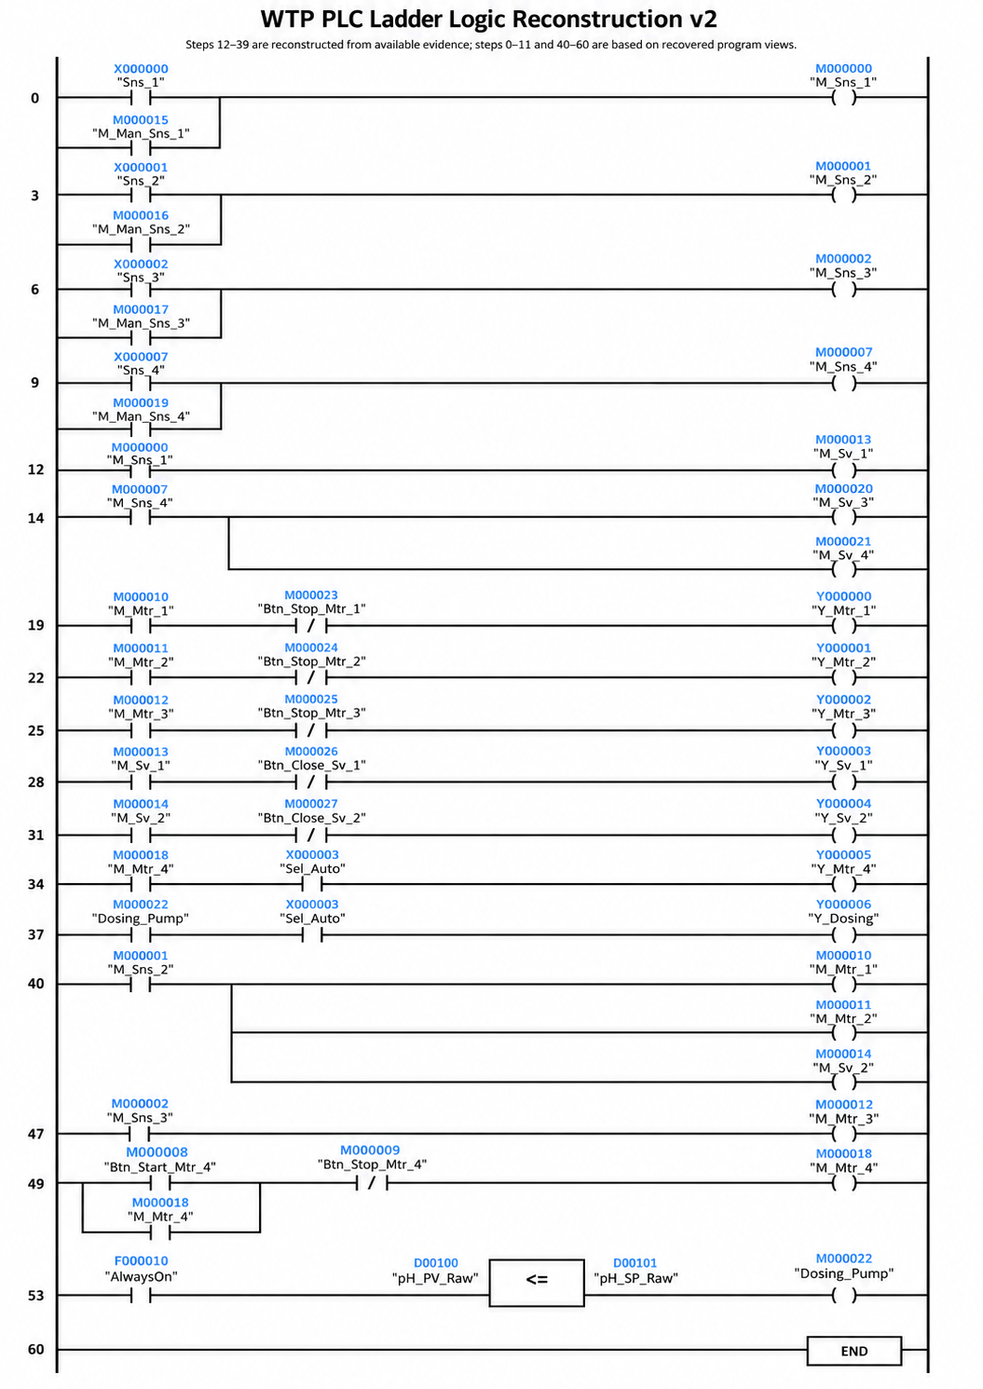
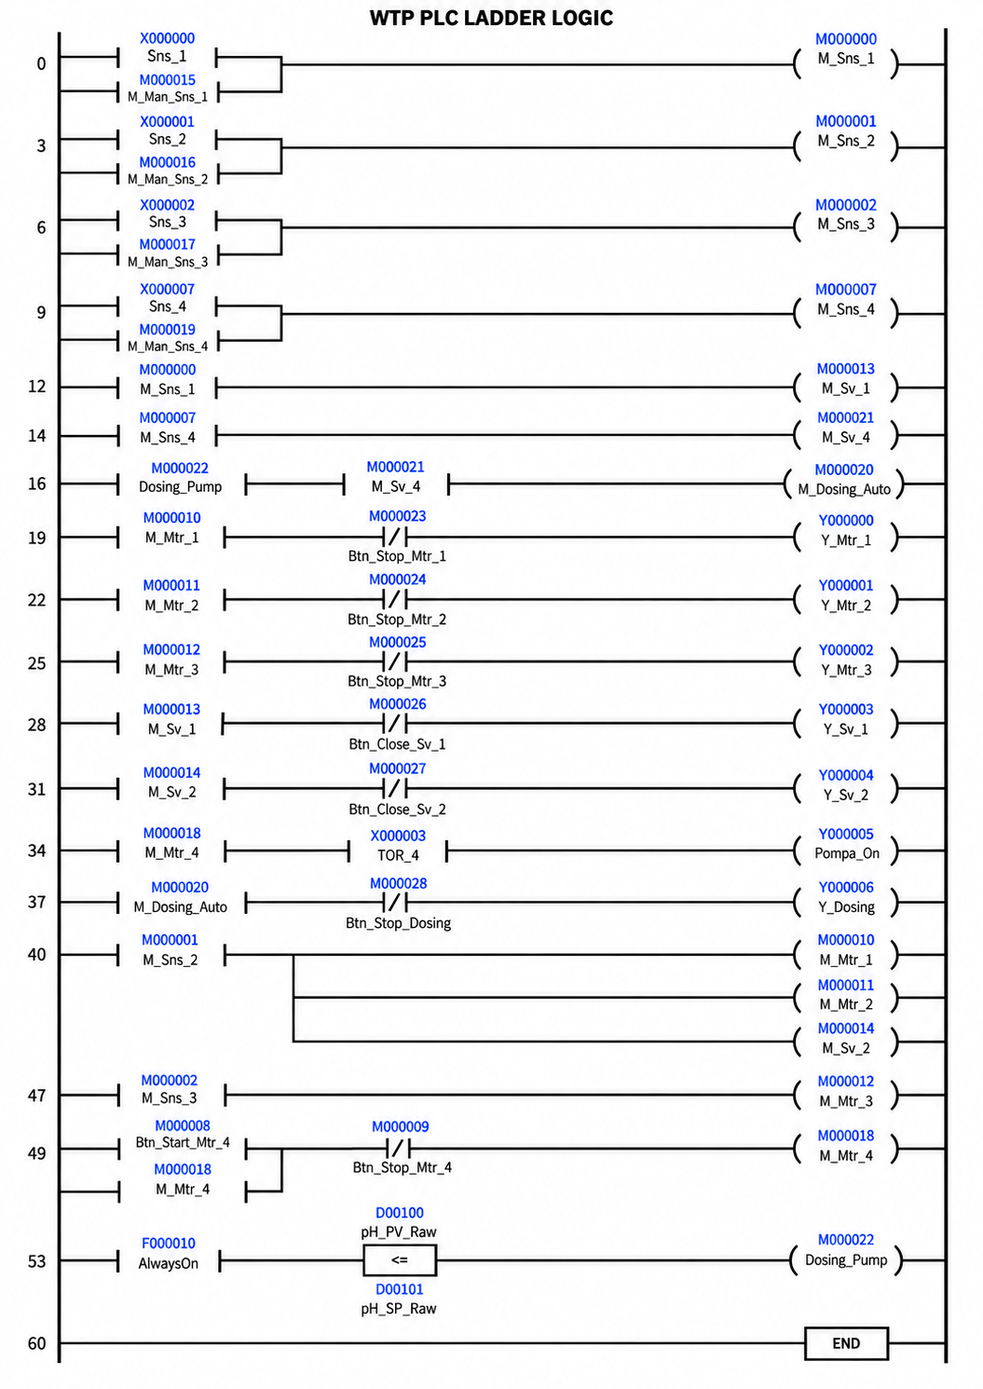
Refine WTP PLC logic section and image zoom

Changed region(s): [[0.0303, 0.0, 0.9706, 0.9873], [0.7886, 0.216, 0.819, 0.2468]]

diff --git a/script.js b/script.js
@@ -287,6 +287,25 @@ const wtpTextPairs = [
   ['Control logic and operator interface.', 'Logika kontrol dan antarmuka operator.'],
   ['Input handling', 'Penanganan input'],
   ['Physical X inputs and manual M_Man_Sns overrides are combined into normalized M_Sns internal states.', 'Input fisik X dan override manual M_Man_Sns digabungkan menjadi state internal M_Sns yang ternormalisasi.'],
+  ['Process sequencing', 'Urutan proses'],
+  ['Normalized process states generate the internal motor and valve commands used by the control program. M_Sns_2 coordinates Motor 1, Motor 2, and SV2 as one process group, while M_Sns_3 commands Motor 3.', 'State proses yang ternormalisasi menghasilkan perintah internal motor dan katup yang digunakan program kontrol. M_Sns_2 mengoordinasikan Motor 1, Motor 2, dan SV2 sebagai satu kelompok proses, sedangkan M_Sns_3 memerintahkan Motor 3.'],
+  ['Circulation control', 'Kontrol sirkulasi'],
+  ['Pump 4 uses HMI start/stop commands to latch M_Mtr_4. The retained run state passes through the TOR_4 overload permissive before the physical Pompa_On output is energized.', 'Pompa 4 menggunakan perintah start/stop HMI untuk melatch M_Mtr_4. State operasi yang dipertahankan melewati permissive overload TOR_4 sebelum output fisik Pompa_On diaktifkan.'],
+  ['pH dosing control', 'Kontrol dosing pH'],
+  ['The GWQ pH process value is transferred through RS485 / Modbus RTU into D00100, while D00101 stores the pH setpoint. The comparison generates M000022 Dosing_Pump; the automatic path is qualified through the SV4 state and operator dosing-stop command before Y_Dosing is energized.', 'Nilai proses pH GWQ ditransfer melalui RS485 / Modbus RTU ke D00100, sedangkan D00101 menyimpan setpoint pH. Hasil perbandingan menghasilkan M000022 Dosing_Pump; jalur otomatis kemudian dikualifikasi melalui state SV4 dan perintah dosing-stop operator sebelum Y_Dosing diaktifkan.'],
+  ['PLC tag map', 'Peta tag PLC'],
+  ['Tag / area', 'Tag / area'],
+  ['Type', 'Tipe'],
+  ['Function', 'Fungsi'],
+  ['Physical process inputs', 'Input fisik proses'],
+  ['HMI/manual input overrides', 'Override input HMI/manual'],
+  ['Normalized process states', 'State proses ternormalisasi'],
+  ['Internal motor commands/states', 'Perintah/state internal motor'],
+  ['Internal valve / control-mode states', 'State internal katup / mode kontrol'],
+  ['pH process value', 'Nilai proses pH'],
+  ['pH setpoint', 'Setpoint pH'],
+  ['Pump-4 overload permissive', 'Permissive overload Pompa 4'],
+  ['Physical actuator outputs', 'Output fisik aktuator'],
   ['Process states', 'State proses'],
   ['Recovered logic derives internal motor/valve states such as M_Mtr_1â€“3 and M_Sv_2. These are PLC/HMI internal states; direct physical Y mappings for the legacy process were not recovered.', 'Logika yang dipulihkan menghasilkan state internal motor/katup seperti M_Mtr_1â€“3 dan M_Sv_2. Ini merupakan state internal PLC/HMI; pemetaan fisik Y langsung untuk proses lama belum berhasil ditemukan.'],
   ['Circulation', 'Sirkulasi'],
@@ -295,8 +314,10 @@ const wtpTextPairs = [
   ['The GWQ pH value is mapped through RS485 / Modbus into D00100. D00101 stores the pH setpoint. The recovered comparison generates M000022 Dosing_Pump.', 'Nilai pH GWQ dipetakan melalui RS485 / Modbus ke D00100. D00101 menyimpan setpoint pH. Perbandingan yang dipulihkan menghasilkan M000022 Dosing_Pump.'],
   ['Recovered and reconstructed logic; inferred output mappings are distinguished from directly observed program logic.', 'Logika hasil pemulihan dan rekonstruksi; pemetaan output yang diinferensikan dibedakan dari logika program yang diamati secara langsung.'],
   ['Process overview', 'Ikhtisar Proses'],
+  ['Process-status overview with operator controls for the existing WTP stages and coordinated equipment states.', 'Ikhtisar status proses dengan kontrol operator untuk tahapan WTP yang sudah ada dan state peralatan yang terkoordinasi.'],
   ['Legacy WTP process overview showing pump, valve, level, and operating states.', 'Ikhtisar proses WTP lama yang menampilkan state pompa, katup, level, dan operasi.'],
   ['pH control', 'Kontrol pH'],
+  ['Operator interface for pH PV/SV, circulation control, automatic dosing, and dosing-pump status.', 'Antarmuka operator untuk PV/SV pH, kontrol sirkulasi, dosing otomatis, dan status pompa dosing.'],
   ['Dedicated pH-control view showing PV/SV, Pump 4 circulation controls, dosing status, and the modified treatment loop.', 'Tampilan khusus kontrol pH yang menunjukkan PV/SV, kontrol sirkulasi Pompa 4, status dosing, dan loop pengolahan hasil modifikasi.'],
   ['Auxiliary control panel', 'Panel kontrol bantu'],
   ['Electrical Wiring & Control', 'Wiring & Kontrol Elektrikal'],
@@ -503,7 +524,7 @@ function translateTextNodes(lang) {
       : textPairs;
   const map = new Map(activePairs.map(pair => [normalizeText(pair[from]), pair[to]]));
   const stableMap = new Map(activePairs.map(pair => [normalizeText(pair[0]), pair[lang === 'id' ? 1 : 0]]));
-  const selector = 'a, button, h1, h2, h3, p, span, strong, figcaption, small, dt, dd, li';
+  const selector = 'a, button, h1, h2, h3, p, span, strong, figcaption, small, dt, dd, li, th, td';
 
   document.querySelectorAll('[data-i18n]').forEach(element => {
     const value = timahProjectTranslations[lang]?.[element.dataset.i18n]
@@ -566,10 +587,58 @@ document.querySelectorAll('.lang-option').forEach(button => {
 function initializeImageLightbox() {
   const lightbox = document.querySelector('.image-lightbox');
   const lightboxImage = lightbox?.querySelector('img');
+  const stage = lightbox?.querySelector('.image-lightbox-stage');
   const closeButton = lightbox?.querySelector('.image-lightbox-close');
-  if (!lightbox || !lightboxImage || !document.body.classList.contains('wtp-page')) return;
+  const zoomOutButton = lightbox?.querySelector('[data-zoom-out]');
+  const zoomResetButton = lightbox?.querySelector('[data-zoom-reset]');
+  const zoomInButton = lightbox?.querySelector('[data-zoom-in]');
+  if (!lightbox || !lightboxImage || !stage || !document.body.classList.contains('wtp-page')) return;
+
+  const pointers = new Map();
+  let scale = 1;
+  let panX = 0;
+  let panY = 0;
+  let dragging = false;
+  let dragPoint = null;
+  let pinchDistance = 0;
+  let pinchScale = 1;
+
+  const clamp = (value, minimum, maximum) => Math.min(maximum, Math.max(minimum, value));
+  const distance = ([first, second]) => Math.hypot(second.x - first.x, second.y - first.y);
+
+  const renderTransform = () => {
+    const maxX = Math.max(0, (lightboxImage.offsetWidth * scale - stage.clientWidth) / 2);
+    const maxY = Math.max(0, (lightboxImage.offsetHeight * scale - stage.clientHeight) / 2);
+    panX = clamp(panX, -maxX, maxX);
+    panY = clamp(panY, -maxY, maxY);
+    lightboxImage.style.transform = `translate(${panX}px, ${panY}px) scale(${scale})`;
+    lightboxImage.classList.toggle('is-zoomed', scale > 1);
+    lightboxImage.classList.toggle('is-dragging', dragging);
+    if (zoomResetButton) zoomResetButton.textContent = `${Math.round(scale * 100)}%`;
+  };
+
+  const resetTransform = () => {
+    scale = 1;
+    panX = 0;
+    panY = 0;
+    dragging = false;
+    dragPoint = null;
+    pinchDistance = 0;
+    pointers.clear();
+    renderTransform();
+  };
+
+  const setZoom = value => {
+    scale = clamp(value, 1, 5);
+    if (scale === 1) {
+      panX = 0;
+      panY = 0;
+    }
+    renderTransform();
+  };
 
   const open = (source, alt = '') => {
+    resetTransform();
     lightboxImage.src = new URL(source, document.baseURI).href;
     lightboxImage.alt = alt;
     lightbox.classList.add('is-open');
@@ -579,6 +648,7 @@ function initializeImageLightbox() {
   };
 
   const close = () => {
+    resetTransform();
     lightbox.classList.remove('is-open');
     lightbox.setAttribute('aria-hidden', 'true');
     document.body.classList.remove('lightbox-open');
@@ -601,9 +671,61 @@ function initializeImageLightbox() {
   document.querySelectorAll('[data-lightbox-src]').forEach(trigger => {
     trigger.addEventListener('click', () => open(trigger.dataset.lightboxSrc, 'Field installation work at the Water Treatment Plant'));
   });
+  zoomOutButton?.addEventListener('click', () => setZoom(scale - .5));
+  zoomResetButton?.addEventListener('click', resetTransform);
+  zoomInButton?.addEventListener('click', () => setZoom(scale + .5));
+  stage.addEventListener('wheel', event => {
+    event.preventDefault();
+    setZoom(scale + (event.deltaY < 0 ? .25 : -.25));
+  }, { passive: false });
+  lightboxImage.addEventListener('dblclick', event => {
+    event.preventDefault();
+    setZoom(scale === 1 ? 2.5 : 1);
+  });
+  lightboxImage.addEventListener('pointerdown', event => {
+    pointers.set(event.pointerId, { x: event.clientX, y: event.clientY });
+    lightboxImage.setPointerCapture(event.pointerId);
+    if (pointers.size === 2) {
+      pinchDistance = distance([...pointers.values()]);
+      pinchScale = scale;
+      dragging = false;
+    } else if (scale > 1) {
+      dragging = true;
+      dragPoint = { x: event.clientX, y: event.clientY };
+    }
+    renderTransform();
+  });
+  lightboxImage.addEventListener('pointermove', event => {
+    if (!pointers.has(event.pointerId)) return;
+    pointers.set(event.pointerId, { x: event.clientX, y: event.clientY });
+    if (pointers.size === 2 && pinchDistance > 0) {
+      setZoom(pinchScale * distance([...pointers.values()]) / pinchDistance);
+      return;
+    }
+    if (!dragging || !dragPoint || scale === 1) return;
+    panX += event.clientX - dragPoint.x;
+    panY += event.clientY - dragPoint.y;
+    dragPoint = { x: event.clientX, y: event.clientY };
+    renderTransform();
+  });
+  const endPointer = event => {
+    pointers.delete(event.pointerId);
+    if (pointers.size === 1 && scale > 1) {
+      const point = [...pointers.values()][0];
+      dragging = true;
+      dragPoint = { ...point };
+    } else {
+      dragging = false;
+      dragPoint = null;
+    }
+    if (pointers.size < 2) pinchDistance = 0;
+    renderTransform();
+  };
+  lightboxImage.addEventListener('pointerup', endPointer);
+  lightboxImage.addEventListener('pointercancel', endPointer);
   closeButton?.addEventListener('click', close);
   lightbox.addEventListener('click', event => {
-    if (event.target === lightbox) close();
+    if (event.target === lightbox || event.target === stage) close();
   });
   document.addEventListener('keydown', event => {
     if (event.key === 'Escape' && lightbox.classList.contains('is-open')) close();

diff --git a/styles.css b/styles.css
@@ -1075,8 +1075,8 @@ h3 { font-size: 1.45rem; }
 .wtp-hero-panel { display:block; min-width:0; background-repeat:no-repeat; background-size:cover; }
 .wtp-hero-panel-installation { background-image:url("assets/projects/wtp/wtp-hero.jpg"); background-position:28% center; }
 .wtp-hero-panel-dosing { background-image:url("assets/projects/wtp/wtp-soda-ash-loading.jpg"); background-position:center 43%; box-shadow:inset 1px 0 rgba(255,255,255,.1); }
-.wtp-process-section,.wtp-plc-section { background:#CFE8FF; }
-.wtp-plc-section { box-shadow:0 0 0 100vmax #CFE8FF; clip-path:inset(0 -100vmax); }
+.wtp-process-section { background:#CFE8FF; }
+.wtp-plc-section { background:#fff; box-shadow:0 0 0 100vmax #fff; clip-path:inset(0 -100vmax); }
 .wtp-problem-section,.wtp-testing-section { background:#fff; box-shadow:0 0 0 100vmax #fff; clip-path:inset(0 -100vmax); }
 .wtp-problem-layout { align-items:stretch; }
 .wtp-problem-layout > div > p:last-child { max-width:600px; margin-bottom:0; }
@@ -1098,19 +1098,28 @@ h3 { font-size: 1.45rem; }
 .wtp-architecture-heading h2 { white-space:nowrap; }
 .wtp-architecture-layout { grid-template-columns:minmax(260px,.7fr) minmax(0,1.3fr); align-items:start; }
 .wtp-architecture-layout .wtp-dark-callouts { height:100%; margin:0; align-content:space-between; }
-.wtp-plc-layout { grid-template-columns:minmax(250px,.48fr) minmax(0,1fr); gap:36px; align-items:end; }
-.wtp-plc-copy { display:grid; gap:11px; }
-.wtp-plc-copy article { padding-bottom:10px; border-bottom:1px solid rgba(7,26,56,.13); }
+.wtp-plc-grid { display:grid; grid-template-columns:minmax(310px,.42fr) minmax(0,.58fr); gap:28px 36px; align-items:start; }
+.wtp-plc-copy { min-width:0; }
+.wtp-plc-top { margin-bottom:16px; }
+.wtp-plc-top h2 { margin-bottom:0; }
+.wtp-plc-items { display:grid; gap:9px; }
+.wtp-plc-copy article { padding-bottom:8px; border-bottom:1px solid rgba(7,26,56,.13); }
 .wtp-plc-copy article:last-of-type { border-bottom:0; }
 .wtp-plc-copy strong { color:var(--wtp-blue); font-size:.65rem; font-weight:850; letter-spacing:.08em; text-transform:uppercase; }
-.wtp-plc-layout > div:first-child p { max-width:430px; margin:4px 0 0; font-size:.72rem; line-height:1.45; }
-.wtp-plc-layout code { color:#1268c4; font-size:.78rem; font-weight:750; }
-.wtp-plc-layout small { display:block; max-width:440px; color:#718093; font-size:.68rem; }
-.wtp-ladder-media img { max-height:560px; object-fit:contain; }
-.wtp-hmi-pair { margin-top:24px; }
-.wtp-hmi-pair article { display:grid; min-width:0; overflow:hidden; align-content:start; grid-template-rows:auto 1fr; border:1px solid #a9cce6; border-radius:11px; background:#fff; }
-.wtp-hmi-pair .wtp-technical-visual { width:100%; aspect-ratio:16/10; }
-.wtp-hmi-pair .wtp-technical-visual img { width:100%; height:100%; max-height:330px; object-fit:contain; }
+.wtp-plc-copy article p { max-width:520px; margin:3px 0 0; font-size:.69rem; line-height:1.4; }
+.wtp-plc-copy code { display:block; margin-top:5px; color:#1268c4; font-size:.66rem; font-weight:750; white-space:normal; }
+.wtp-tag-map { margin-top:12px; }
+.wtp-tag-map > strong { display:block; margin-bottom:5px; }
+.wtp-tag-map table { width:100%; border-collapse:collapse; color:#344a61; font-size:.61rem; line-height:1.28; }
+.wtp-tag-map th,.wtp-tag-map td { padding:4px 5px; text-align:left; vertical-align:top; border-bottom:1px solid #d3dee7; }
+.wtp-tag-map th { color:#607187; font-size:.57rem; letter-spacing:.05em; text-transform:uppercase; }
+.wtp-tag-map th:nth-child(2),.wtp-tag-map td:nth-child(2) { width:42px; text-align:center; }
+.wtp-tag-map td:first-child { color:#173b5c; font-family:"Consolas","Courier New",monospace; font-weight:700; }
+.wtp-ladder-media { align-self:start; place-items:start center; }
+.wtp-ladder-media img { width:100%; height:auto; max-height:680px; object-fit:contain; }
+.wtp-hmi-item { display:grid; min-width:0; overflow:hidden; align-self:stretch; grid-template-rows:auto 1fr; border:1px solid #a9cce6; border-radius:11px; background:#fff; }
+.wtp-hmi-item .wtp-technical-visual { width:100%; height:clamp(220px,22vw,310px); }
+.wtp-hmi-item .wtp-technical-visual img { width:100%; height:100%; max-height:none; object-fit:contain; }
 .wtp-hmi-copy { width:100%; padding:13px 16px 15px; border-top:1px solid #d6e4ee; }
 .wtp-hmi-copy span { display:block; color:var(--wtp-blue); font-size:.68rem; font-weight:850; letter-spacing:.1em; text-transform:uppercase; }
 .wtp-hmi-copy p { margin:4px 0 0; }
@@ -1124,10 +1133,17 @@ h3 { font-size: 1.45rem; }
 .wtp-result-grid .wtp-result-summary p { margin-top:5px; color:#173b5c; }
 .wtp-result-summary strong { color:#071a38; }
 .wtp-evidence-grid img,.wtp-page main img { cursor:zoom-in; }
-.image-lightbox { position:fixed; inset:0; z-index:200; display:none; align-items:center; justify-content:center; padding:54px 24px 24px; background:rgba(2,8,18,.94); }
+.image-lightbox { position:fixed; inset:0; z-index:200; display:none; overflow:hidden; align-items:center; justify-content:center; padding:54px 24px 70px; background:rgba(2,8,18,.94); }
 .image-lightbox.is-open { display:flex; }
-.image-lightbox img { display:block; max-width:min(94vw,1500px); max-height:88vh; width:auto; height:auto; object-fit:contain; }
+.image-lightbox-stage { position:absolute; inset:52px 18px 66px; display:grid; overflow:hidden; place-items:center; touch-action:none; }
+.image-lightbox img { display:block; max-width:min(94vw,1500px); max-height:calc(100vh - 130px); width:auto; height:auto; object-fit:contain; transform-origin:center; user-select:none; -webkit-user-drag:none; cursor:zoom-in; will-change:transform; }
+.image-lightbox img.is-zoomed { cursor:grab; }
+.image-lightbox img.is-dragging { cursor:grabbing; }
 .image-lightbox-close { position:absolute; top:15px; right:20px; width:40px; height:40px; padding:0; color:#fff; font-size:2rem; line-height:1; border:1px solid rgba(255,255,255,.35); border-radius:50%; background:rgba(255,255,255,.08); cursor:pointer; }
+.image-lightbox-controls { position:absolute; bottom:16px; left:50%; z-index:2; display:flex; overflow:hidden; border:1px solid rgba(255,255,255,.3); border-radius:8px; background:rgba(7,26,56,.9); transform:translateX(-50%); }
+.image-lightbox-controls button { min-width:42px; height:34px; padding:0 11px; color:#fff; font:700 .75rem Inter,"Segoe UI",Arial,sans-serif; border:0; border-right:1px solid rgba(255,255,255,.2); background:transparent; cursor:pointer; }
+.image-lightbox-controls button:last-child { border-right:0; }
+.image-lightbox-controls button:hover,.image-lightbox-controls button:focus-visible { background:rgba(69,183,232,.22); }
 body.lightbox-open { overflow:hidden; }
 @media (max-width:960px) {
   .wtp-page .timah-hero-grid { grid-template-columns:1fr; }
@@ -1140,7 +1156,7 @@ body.lightbox-open { overflow:hidden; }
   .wtp-hero-media-pair::before { background:linear-gradient(90deg,#06152e 0%,rgba(6,21,46,.84) 30%,rgba(6,21,46,.25) 68%,transparent 100%); }
   .wtp-hero-panel-installation { background-position:24% center; }
   .wtp-hero-panel-dosing { background-position:center 40%; }
-  .wtp-process-compare,.wtp-hmi-pair,.wtp-result-grid,.wtp-plc-layout { grid-template-columns:1fr; gap:22px; }
+  .wtp-process-compare,.wtp-hmi-pair,.wtp-result-grid,.wtp-plc-layout,.wtp-plc-grid { grid-template-columns:1fr; gap:22px; }
   .wtp-technical-visual img,.wtp-process-compare .wtp-technical-visual img,.wtp-architecture-media img,.wtp-ladder-media img,.wtp-hmi-pair .wtp-technical-visual img,.wtp-electrical-media img,.wtp-result-grid .wtp-technical-visual img { max-height:none; }
   .wtp-problem-media { height:auto; }
   .wtp-problem-media img { position:static; height:auto; max-height:none; }
@@ -1148,6 +1164,8 @@ body.lightbox-open { overflow:hidden; }
   .wtp-architecture-heading h2 { white-space:normal; }
   .wtp-architecture-layout { grid-template-columns:1fr; }
   .wtp-hmi-pair .wtp-technical-visual,.wtp-result-grid .wtp-technical-visual { aspect-ratio:auto; }
+  .wtp-hmi-item .wtp-technical-visual { height:auto; min-height:220px; }
   .wtp-result-summary { width:min(92%,440px); }
-  .image-lightbox { padding:52px 12px 16px; }
+  .image-lightbox { padding:52px 12px 66px; }
+  .image-lightbox-stage { inset:50px 8px 62px; }
 }

diff --git a/projects/plc-process-automation.html b/projects/plc-process-automation.html
@@ -43,9 +43,12 @@
     </div></section>
 
     <section class="timah-section container wtp-plc-section">
-      <div class="timah-section-heading"><div><p class="timah-section-label">PLC Logic &amp; HMI</p><h2>Control logic and operator interface.</h2></div></div>
-      <div class="timah-split wtp-plc-layout"><div class="wtp-plc-copy"><article><strong>Input handling</strong><p>Physical X inputs and manual M_Man_Sns overrides are combined into normalized M_Sns internal states.</p></article><article><strong>Process states</strong><p>Recovered logic derives internal motor/valve states such as M_Mtr_1&ndash;3 and M_Sv_2. These are PLC/HMI internal states; direct physical Y mappings for the legacy process were not recovered.</p></article><article><strong>Circulation</strong><p>Pump 4 uses HMI start/stop commands with M_Mtr_4 as the held internal circulation state.</p></article><article><strong>pH dosing</strong><p>The GWQ pH value is mapped through RS485 / Modbus into D00100. D00101 stores the pH setpoint. The recovered comparison generates M000022 Dosing_Pump.</p></article><small>Recovered and reconstructed logic; inferred output mappings are distinguished from directly observed program logic.</small></div><div class="wtp-technical-visual wtp-ladder-media"><img src="../assets/projects/wtp/wtp-ladder-logic.png" alt="Complete reconstructed WTP PLC ladder logic" loading="lazy" /></div></div>
-      <div class="wtp-hmi-pair wtp-hmi-grid"><article class="wtp-hmi-item"><div class="wtp-technical-visual"><img src="../assets/projects/wtp/wtp-hmi-modified.jpg" alt="Modified WTP HMI process screen" loading="lazy" /></div><div class="wtp-hmi-copy"><span>Process overview</span><p>Legacy WTP process overview showing pump, valve, level, and operating states.</p></div></article><article class="wtp-hmi-item"><div class="wtp-technical-visual"><img src="../assets/projects/wtp/wtp-hmi-ph-control.jpg" alt="WTP HMI pH control screen" loading="lazy" /></div><div class="wtp-hmi-copy"><span>pH control</span><p>Dedicated pH-control view showing PV/SV, Pump 4 circulation controls, dosing status, and the modified treatment loop.</p></div></article></div>
+      <div class="wtp-plc-grid">
+        <div class="wtp-plc-copy"><div class="wtp-plc-top"><p class="timah-section-label">PLC Logic &amp; HMI</p><h2>Control logic and operator interface.</h2></div><div class="wtp-plc-items"><article><strong>Input handling</strong><p>Physical X inputs and manual M_Man_Sns overrides are combined into normalized M_Sns internal states.</p><code>X_Sns_n OR M_Man_Sns_n &rarr; M_Sns_n</code></article><article><strong>Process sequencing</strong><p>Normalized process states generate the internal motor and valve commands used by the control program. M_Sns_2 coordinates Motor 1, Motor 2, and SV2 as one process group, while M_Sns_3 commands Motor 3.</p></article><article><strong>Circulation control</strong><p>Pump 4 uses HMI start/stop commands to latch M_Mtr_4. The retained run state passes through the TOR_4 overload permissive before the physical Pompa_On output is energized.</p><code>Start / Stop &rarr; M_Mtr_4 &rarr; TOR_4 &rarr; Pompa_On</code></article><article><strong>pH dosing control</strong><p>The GWQ pH process value is transferred through RS485 / Modbus RTU into D00100, while D00101 stores the pH setpoint. The comparison generates M000022 Dosing_Pump; the automatic path is qualified through the SV4 state and operator dosing-stop command before Y_Dosing is energized.</p><code>D00100 &le; D00101 &rarr; Dosing_Pump &rarr; M_Sv_4 &rarr; Y_Dosing</code></article></div><div class="wtp-tag-map"><strong>PLC tag map</strong><table><thead><tr><th>Tag / area</th><th>Type</th><th>Function</th></tr></thead><tbody><tr><td>Sns_1&hellip;4</td><td>X</td><td>Physical process inputs</td></tr><tr><td>M_Man_Sns_1&hellip;4</td><td>M</td><td>HMI/manual input overrides</td></tr><tr><td>M_Sns_1&hellip;4</td><td>M</td><td>Normalized process states</td></tr><tr><td>M_Mtr_1&hellip;4</td><td>M</td><td>Internal motor commands/states</td></tr><tr><td>M_Sv_1, M_Sv_2, M_Sv_4</td><td>M</td><td>Internal valve / control-mode states</td></tr><tr><td>D00100</td><td>D</td><td>pH process value</td></tr><tr><td>D00101</td><td>D</td><td>pH setpoint</td></tr><tr><td>TOR_4</td><td>X</td><td>Pump-4 overload permissive</td></tr><tr><td>Y_Mtr_* / Y_Sv_*</td><td>Y</td><td>Physical actuator outputs</td></tr></tbody></table></div></div>
+        <div class="wtp-technical-visual wtp-ladder-media"><img src="../assets/projects/wtp/wtp-ladder-logic.png" alt="WTP PLC ladder logic for process sequencing, circulation, and pH dosing control" loading="lazy" /></div>
+        <article class="wtp-hmi-item"><div class="wtp-technical-visual"><img src="../assets/projects/wtp/wtp-hmi-modified.jpg" alt="Modified WTP HMI process screen" loading="lazy" /></div><div class="wtp-hmi-copy"><span>Process overview</span><p>Process-status overview with operator controls for the existing WTP stages and coordinated equipment states.</p></div></article>
+        <article class="wtp-hmi-item"><div class="wtp-technical-visual"><img src="../assets/projects/wtp/wtp-hmi-ph-control.jpg" alt="WTP HMI pH control screen" loading="lazy" /></div><div class="wtp-hmi-copy"><span>pH control</span><p>Operator interface for pH PV/SV, circulation control, automatic dosing, and dosing-pump status.</p></div></article>
+      </div>
     </section>
 
     <section class="timah-section timah-dashboard-section"><div class="container">
@@ -76,7 +79,7 @@
     <section class="project-band"><div class="container next-projects"><a href="smart-workshop-monitoring.html">Previous: Smart Workshop</a><a href="robotic-arm-platform.html">Next: Robotic Arm Platform</a></div></section>
   </main>
 
-  <div class="image-lightbox" role="dialog" aria-modal="true" aria-label="Image viewer" aria-hidden="true"><button class="image-lightbox-close" type="button" aria-label="Close image viewer">&times;</button><img src="" alt="" /></div>
+  <div class="image-lightbox" role="dialog" aria-modal="true" aria-label="Image viewer" aria-hidden="true"><button class="image-lightbox-close" type="button" aria-label="Close image viewer">&times;</button><div class="image-lightbox-stage"><img src="" alt="" /></div><div class="image-lightbox-controls" aria-label="Image zoom controls"><button type="button" data-zoom-out aria-label="Zoom out">&minus;</button><button type="button" data-zoom-reset aria-label="Reset zoom">100%</button><button type="button" data-zoom-in aria-label="Zoom in">+</button></div></div>
 
   <footer class="footer"><div class="container footer-inner"><span>&copy; <span id="year"></span> Amirul Hakim</span><span>Engineering Portfolio</span></div></footer>
   <script src="../script.js?v=20260907-2"></script>
